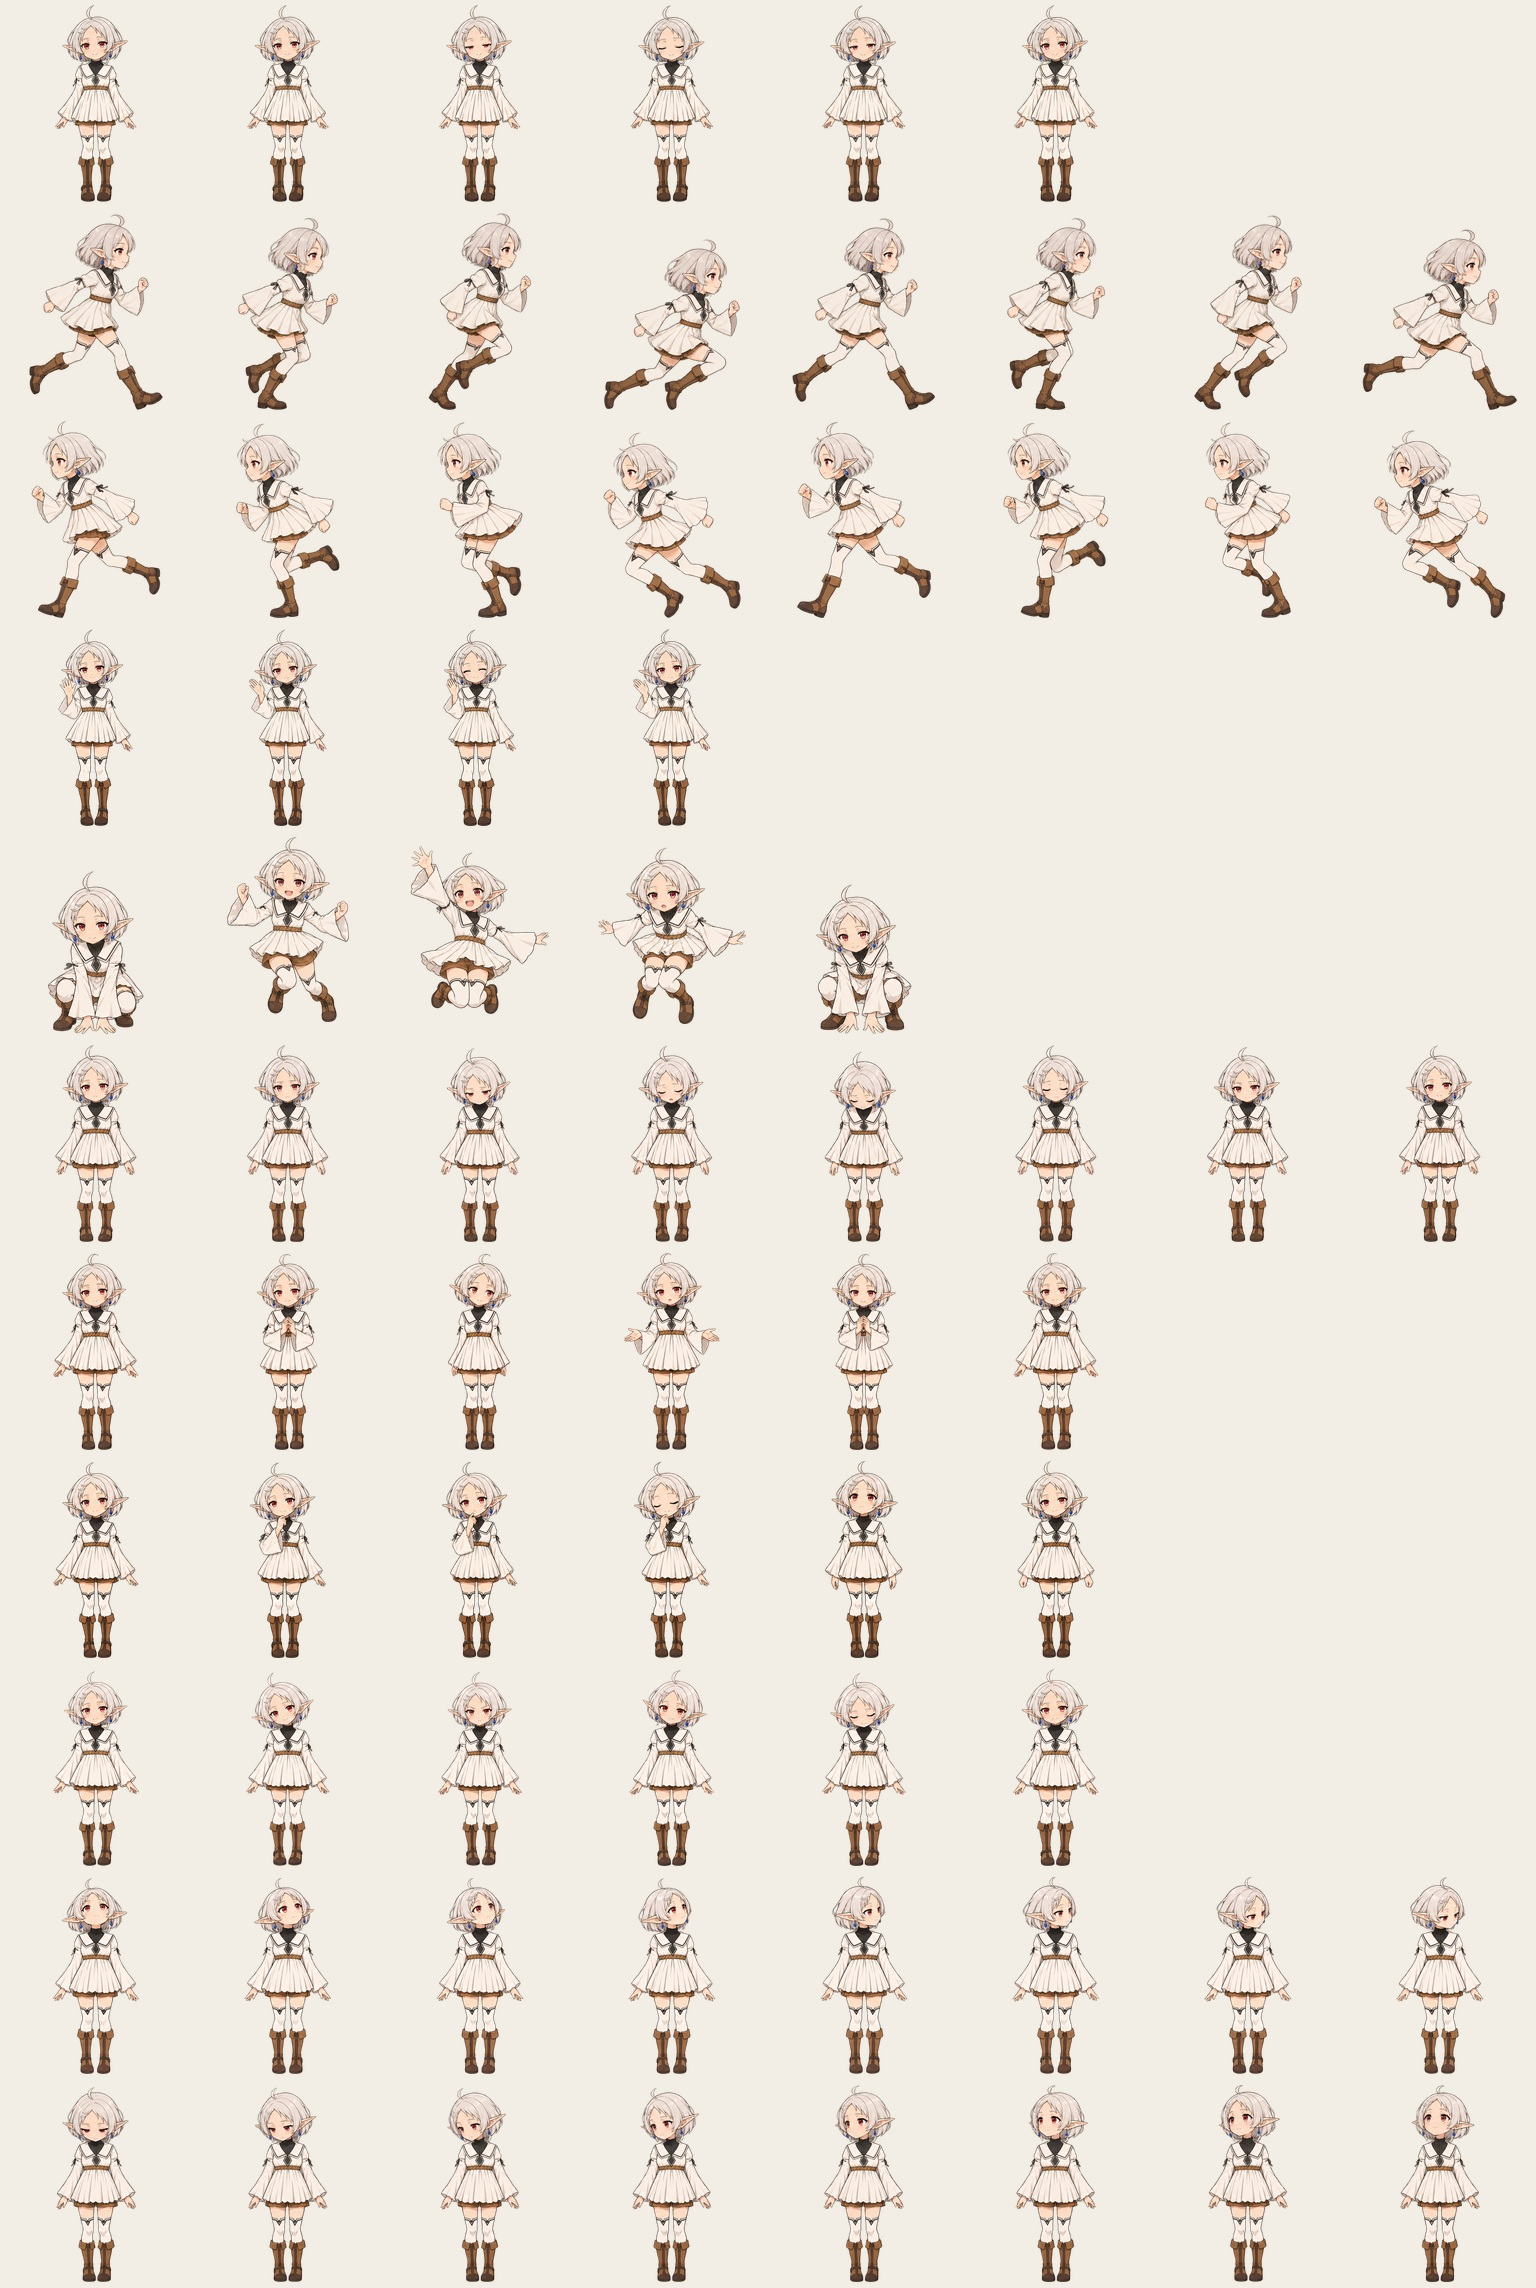
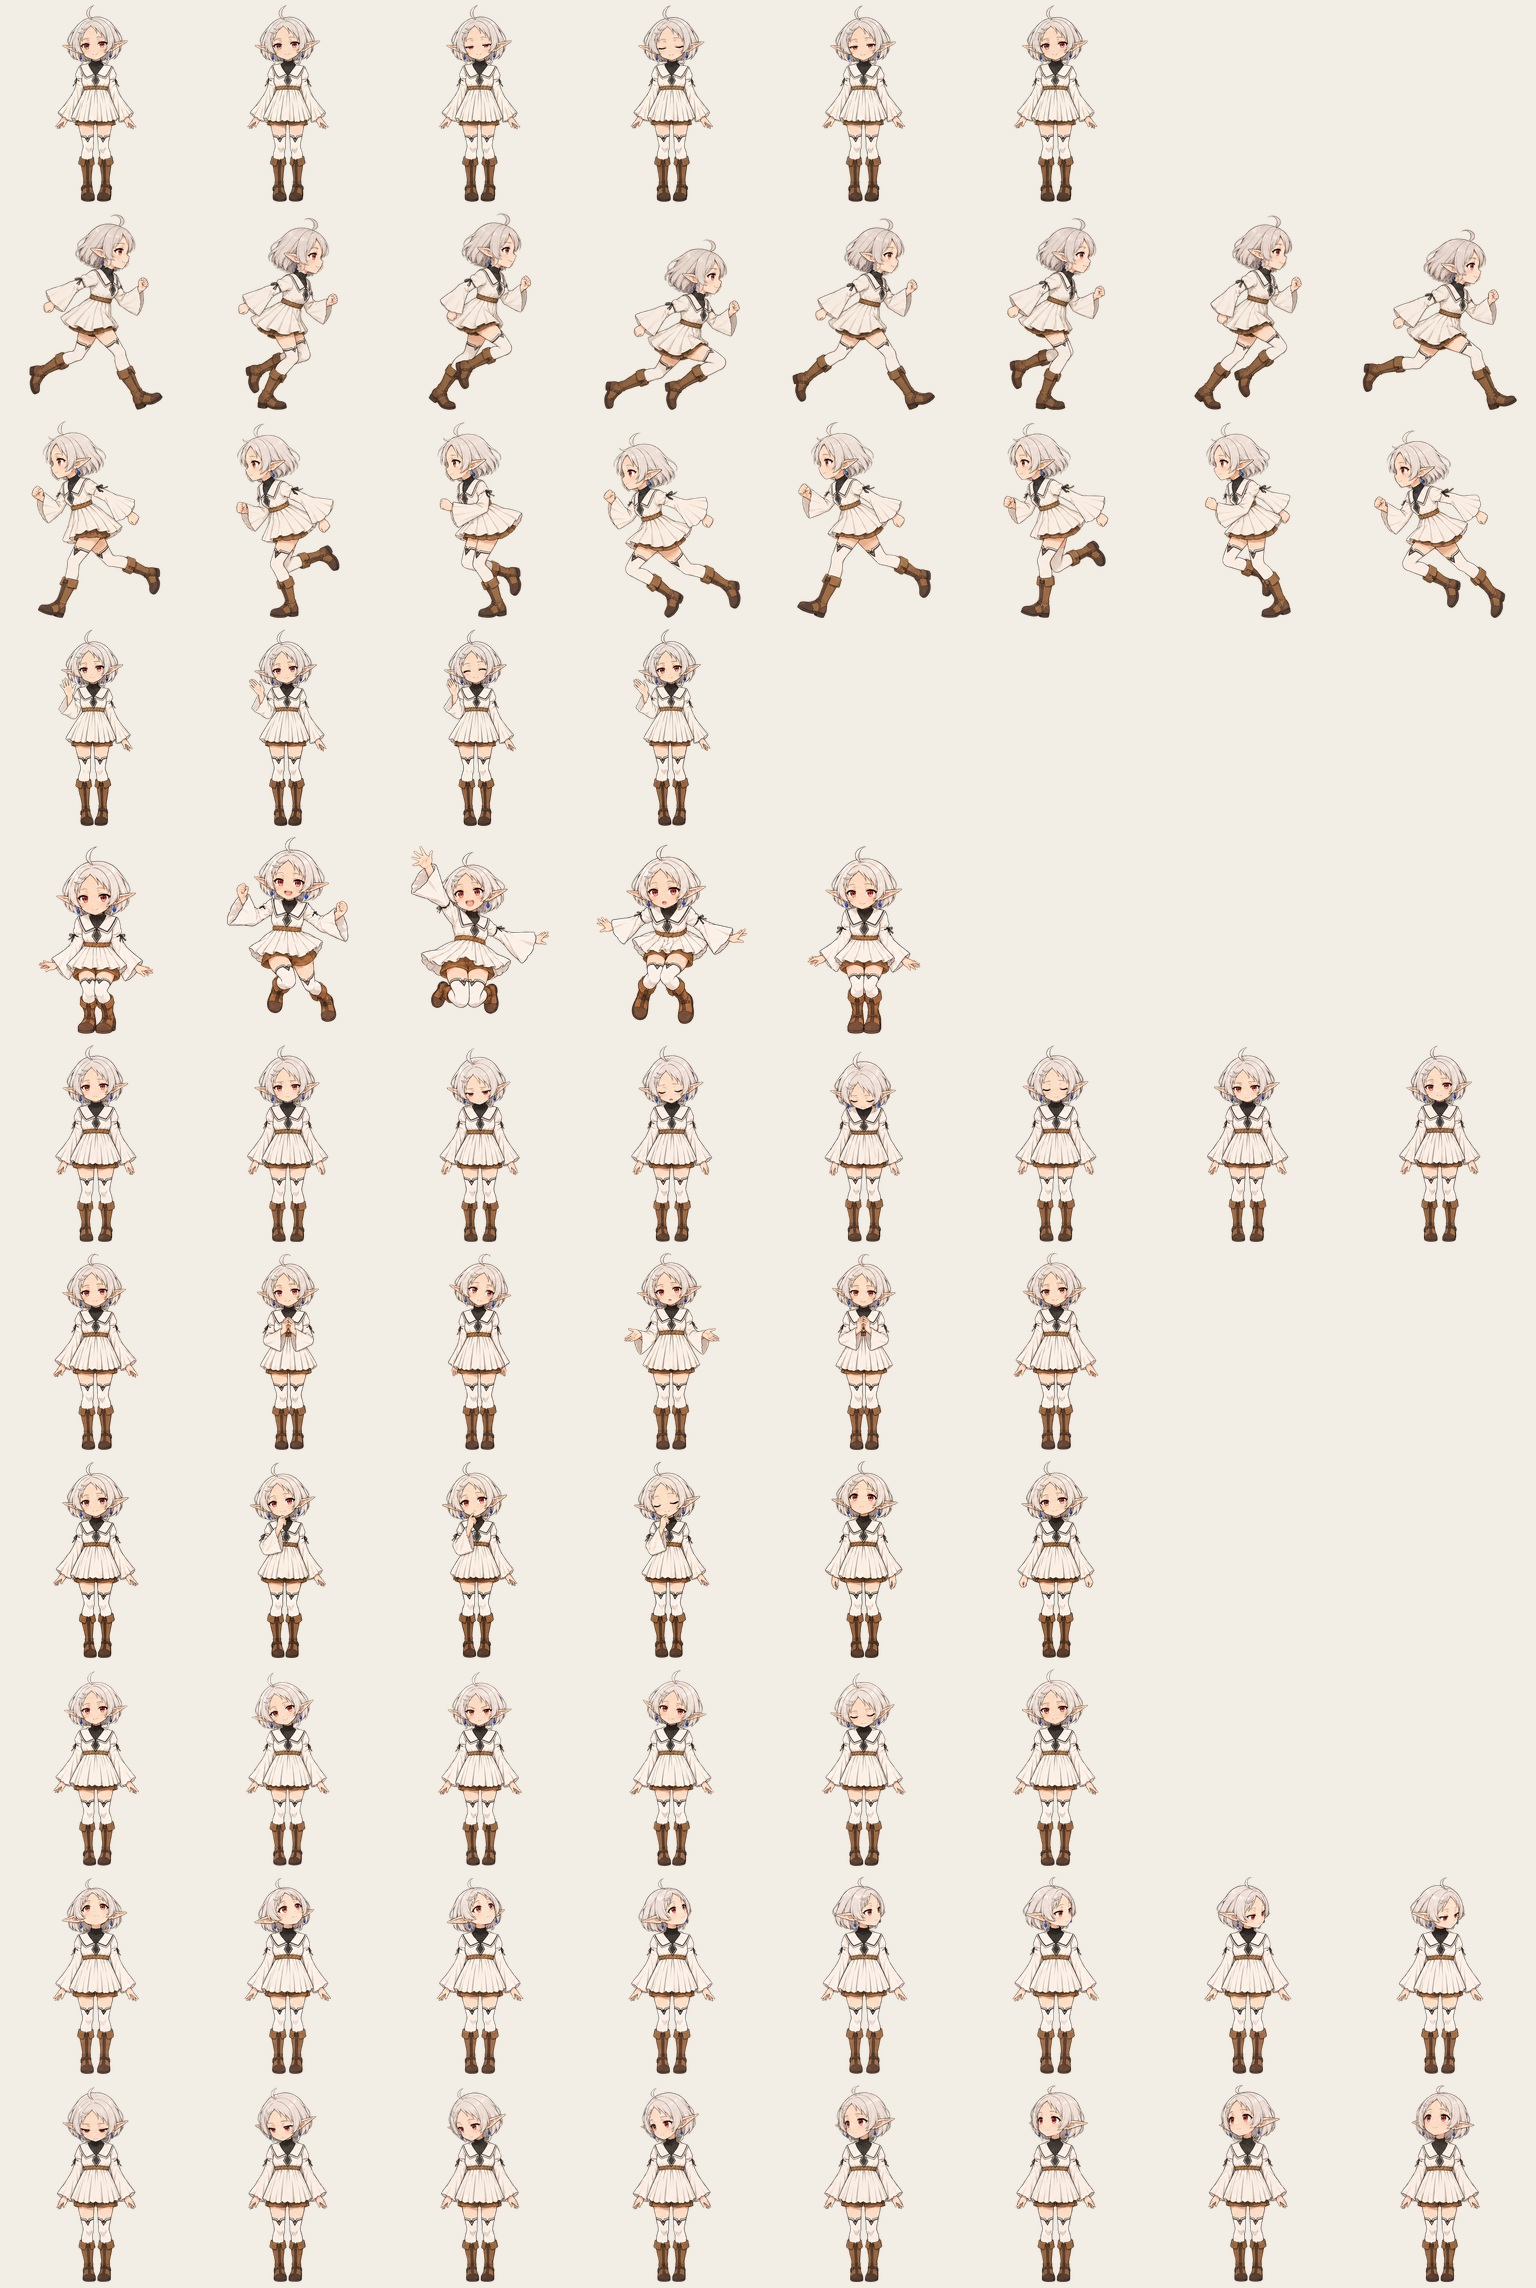
希露菲跳跃动作修订：起跳/落地并腿轻屈膝、不再撑地；图集、预览、QA 与文档同步；重建安装包

diff --git a/07-docs/素材制作/希露菲素材制作记录.md b/07-docs/素材制作/希露菲素材制作记录.md
@@ -22,3 +22,9 @@ bash 03-scripts/build.sh
 抽帧与预览脚本需要 Pillow、numpy。`05-images/sylphie/` 与 `05-images/sylphie-chibi/` 分别保存六种动画预览、全帧检查图及与现有人物的同尺寸对比。
 
 两份人物配置分别使用 `id: sylphie-adult`、`id: sylphie-chibi`，统一使用 `characterID: sylphie`，直接读取已有希露菲语料。本次没有改写语料。角色菜单、菜单栏头像、窗口名称、聊天身份与会话隔离沿用现有多人物机制。
+
+## 2026-10-18 动作与菜单修订
+
+两版跳跃的第一帧和第五帧已按用户要求改为双腿靠拢、轻屈膝的起跳准备与落地缓冲，双手自然放在身体两侧，不再撑地。使用内置 image_gen 定向编辑，最终提示词分别保存为各工程的 `prompts/jumping-revision.md`；替换前原图留在 `qa/rejected/jumping-ground-pose.png`。当前 `sources/jumping.png` 是采用的修订版。
+
+角色菜单按人物身份分组，组间加横线，菜单名统一为「洛琪希」「艾丽丝 · 长发」「艾丽丝 · 短发」「希露菲 · 日常装」「希露菲 · Q版」。用户选定的希露菲修长版排在该人物首位，菜单不显示“默认”字样。

diff --git a/06-art-source/sylphie-chibi/prompts/jumping-revision.md b/06-art-source/sylphie-chibi/prompts/jumping-revision.md
@@ -1,0 +1,1 @@
+Edit this existing transparent sprite animation sheet. Preserve the exact character identity, compact big-headed chibi proportions, facial features, white bob, elf ears, blue earrings, white wide-sleeve tunic, black high collar, brown shorts, white stockings and brown tall boots. Preserve the 3 columns x 2 rows layout, all six fully visible separate figures and original clean anime rendering. Change ONLY the pose of the TOP LEFT and BOTTOM MIDDLE figures: replace the deep frog squat / hands-on-ground pose with a graceful small standing knee bend. Both boots flat and close together, knees close and slightly bent, torso mostly upright, arms softly bent beside waist with hands floating by hips. Hands NEVER touch ground. No wide squat, no kneeling, no crawling. Top-left is anticipation for a light hop; bottom-middle is gentle upright landing absorption. Keep remaining FOUR figures and poses as close to original as possible. All characters fully inside their individual cells with clear transparent padding, no overlapping figures. Genuine transparent background, no glow, no shadows, no labels.

diff --git a/06-art-source/sylphie/prompts/jumping-revision.md b/06-art-source/sylphie/prompts/jumping-revision.md
@@ -1,0 +1,1 @@
+Edit this existing transparent sprite animation sheet. Preserve the exact character identity, slender body proportions, facial features, white bob, elf ears, blue earrings, white wide-sleeve tunic, black high collar, brown shorts, white stockings and brown tall boots. Preserve the 3 columns x 2 rows layout, all six fully visible separate figures and original clean anime rendering. Change ONLY the pose of the TOP LEFT and BOTTOM MIDDLE figures: replace the deep frog squat / hands-on-ground pose with a graceful small standing knee bend. Both boots flat and close together, knees close and slightly bent, torso mostly upright, arms softly bent beside waist with hands floating by hips. Hands NEVER touch ground. No wide squat, no kneeling, no crawling. Top-left is anticipation for a light hop; bottom-middle is gentle upright landing absorption. Keep remaining FOUR figures and poses as close to original as possible. All characters fully inside their individual cells with clear transparent padding, no overlapping figures. Genuine transparent background, no glow, no shadows, no labels.

diff --git a/CHANGELOG.md b/CHANGELOG.md
@@ -5,6 +5,8 @@
 ## v2.2 — 2026-10-18（希露菲双形象）
 
 - 新增希露菲白发日常装与 Q版日常装；用户选定的修长版为默认。两版均按设定图右侧无披肩版本制作，各含 73 帧动画与 16 向视线，使用高清图集。
+- 两版跳跃的起跳与落地改为并腿轻屈膝，移除双手撑地动作。
+- 角色菜单按人物分组、组间横线分隔，统一简短形象名称。
 - 加入右键与菜单栏角色选择，菜单、图标、窗口名及人物人设自动切换；复用已有希露菲语料。
 - 保存母版、动作原图、提示词、独立帧及预览；五套形象纳入离线切换自检。
 - 版本号升至 **2.2**，安装包 `Roxy.dmg` 用当前源码重新构建。
